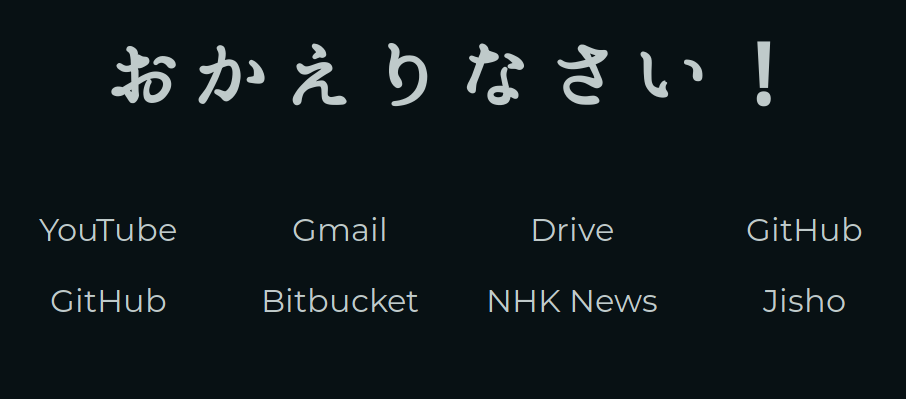
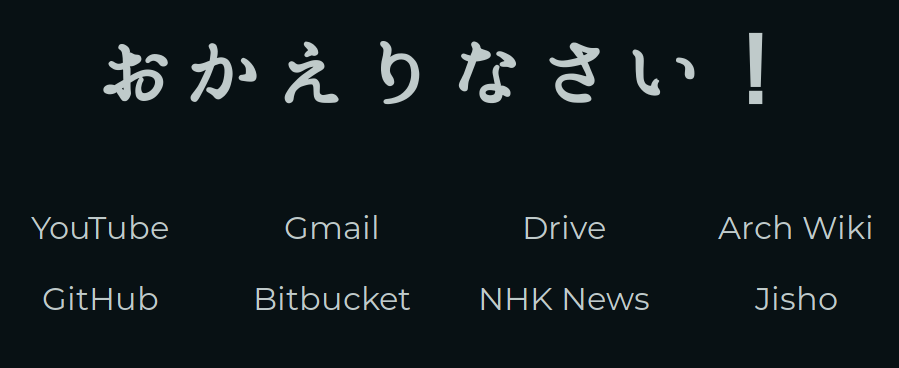
Fixed doubled link

diff --git a/index.html b/index.html
@@ -31,7 +31,7 @@
                 </td>
                 <td><a href="http://mail.google.com">Gmail</a></td>
                 <td><a href="http://drive.google.com">Drive</a></td>
-                <td><a href="http://github.com">GitHub</a></td>
+                <td><a href="http://wiki.archlinux.org">Arch Wiki</a></td>
             </tr>
             <tr>
                 <td><a href="http://github.com">GitHub</a></td>
